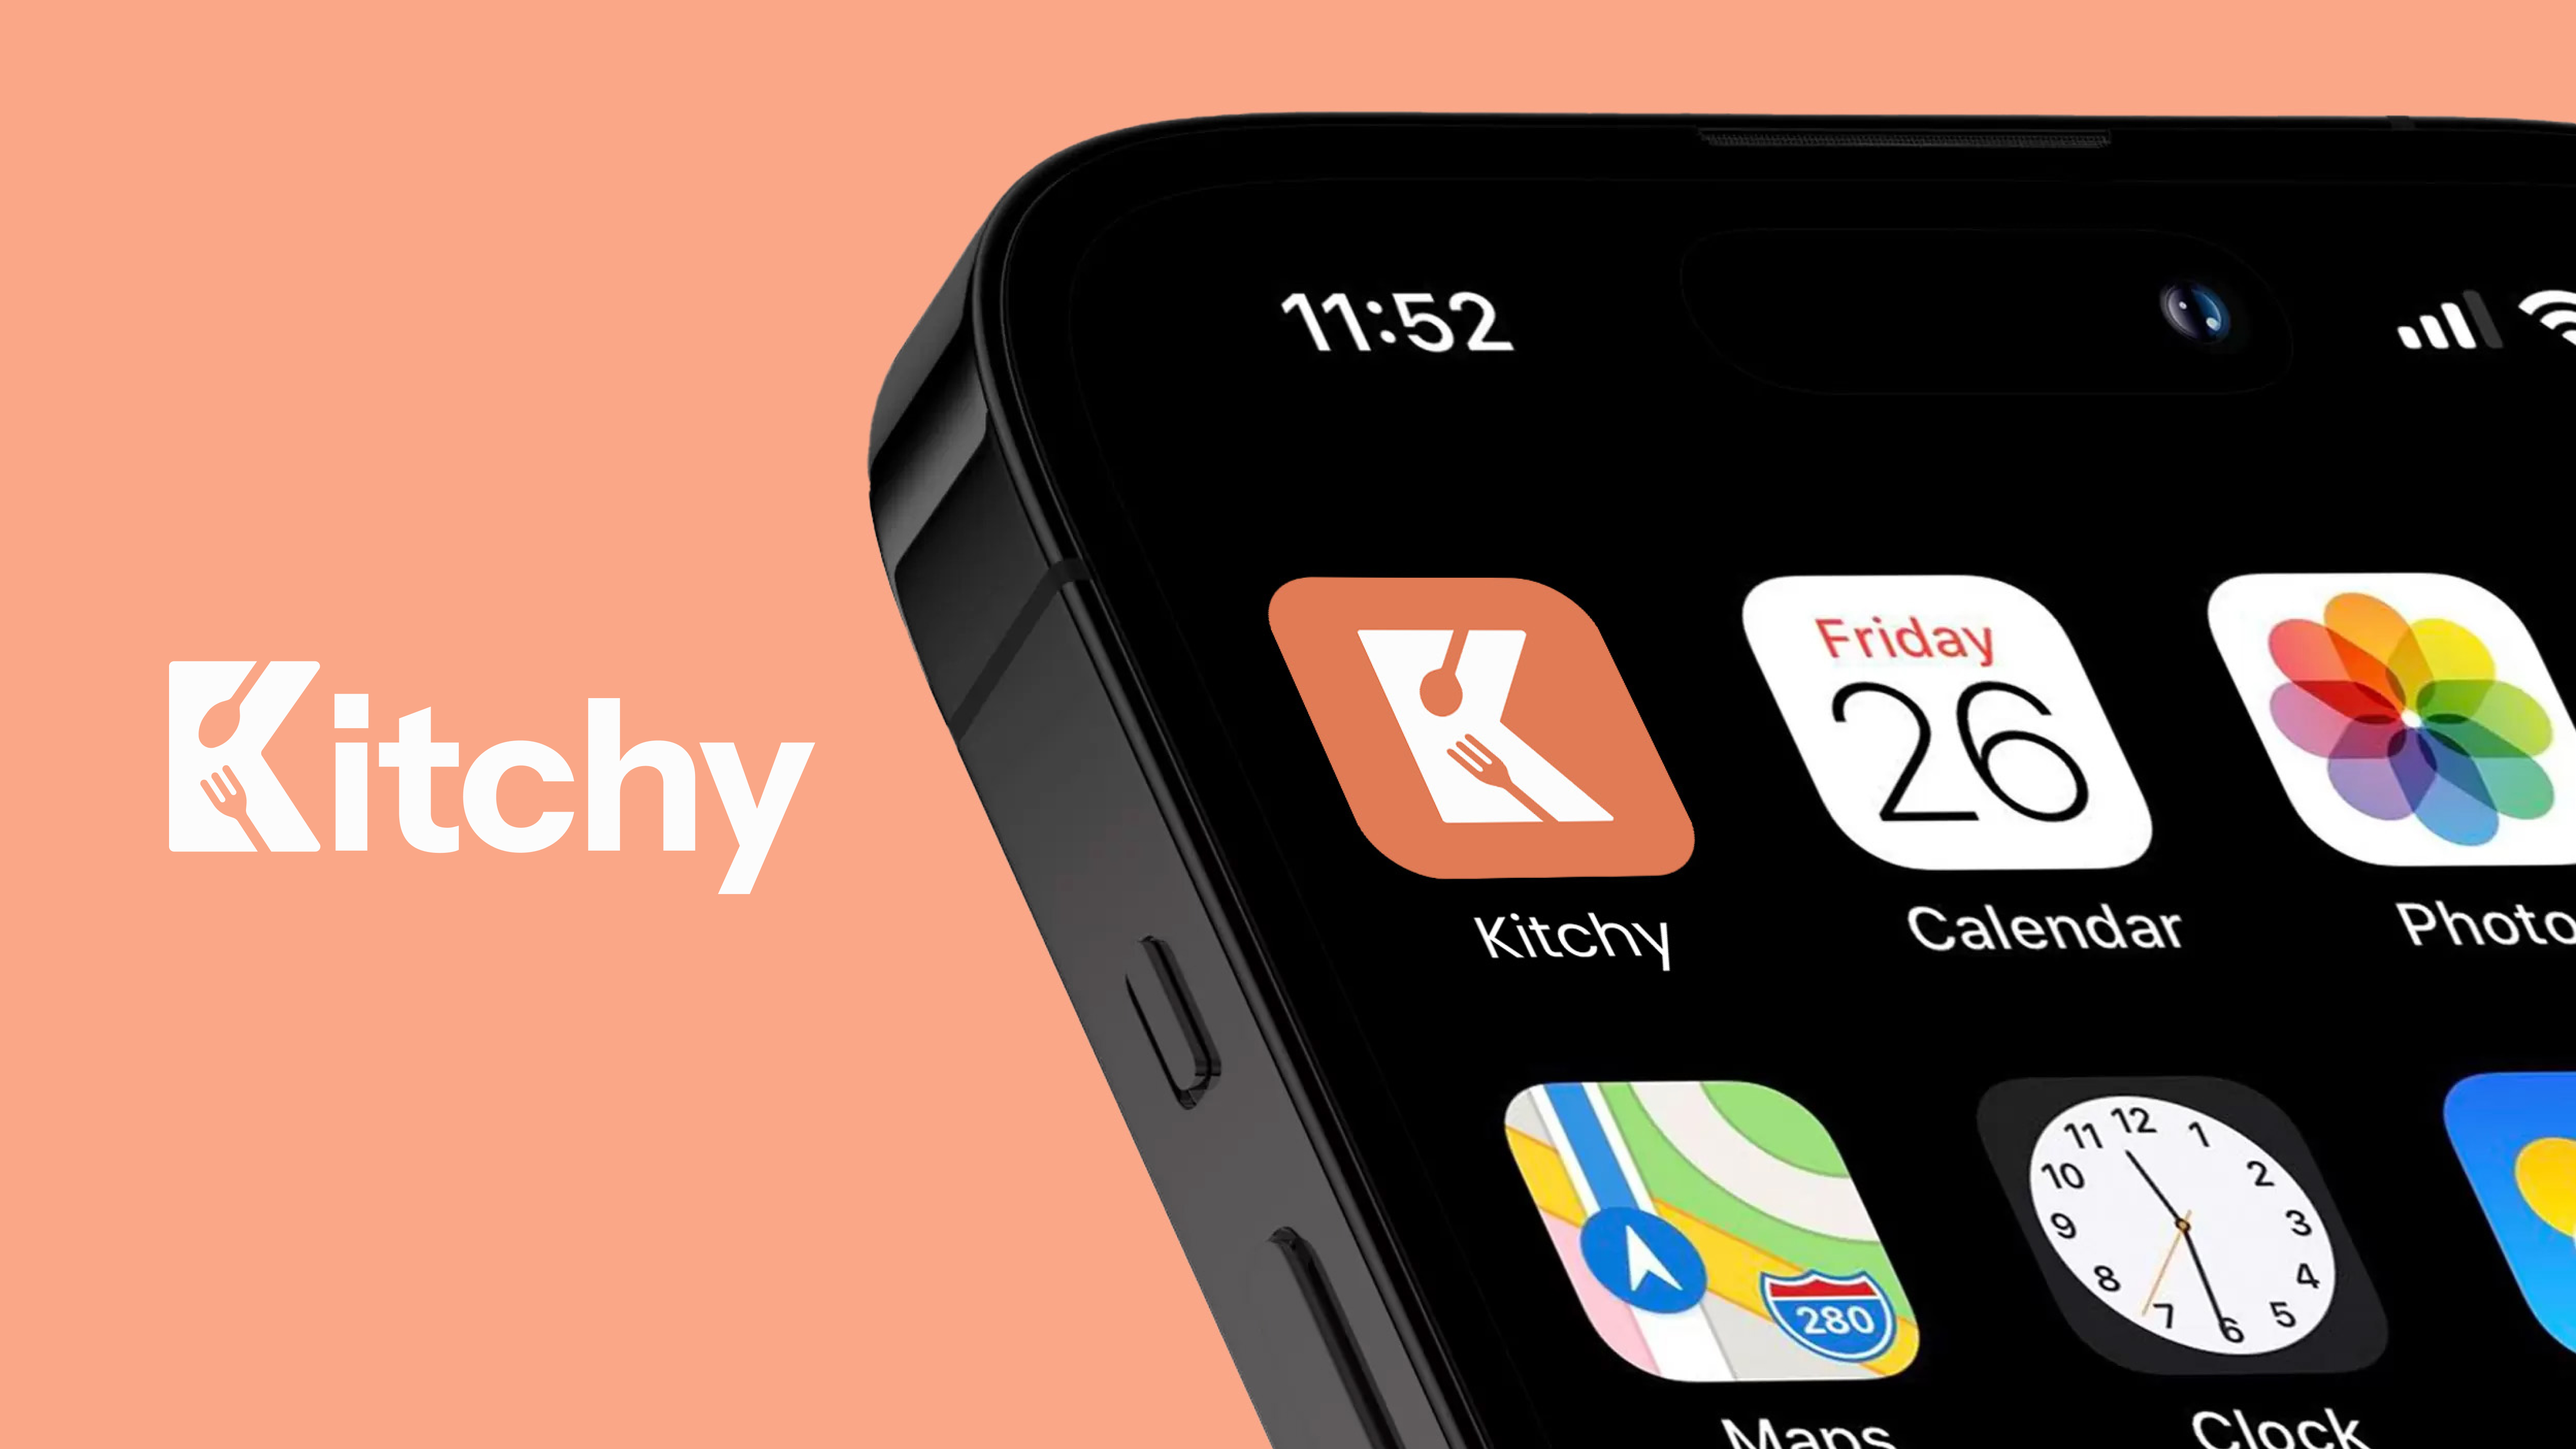
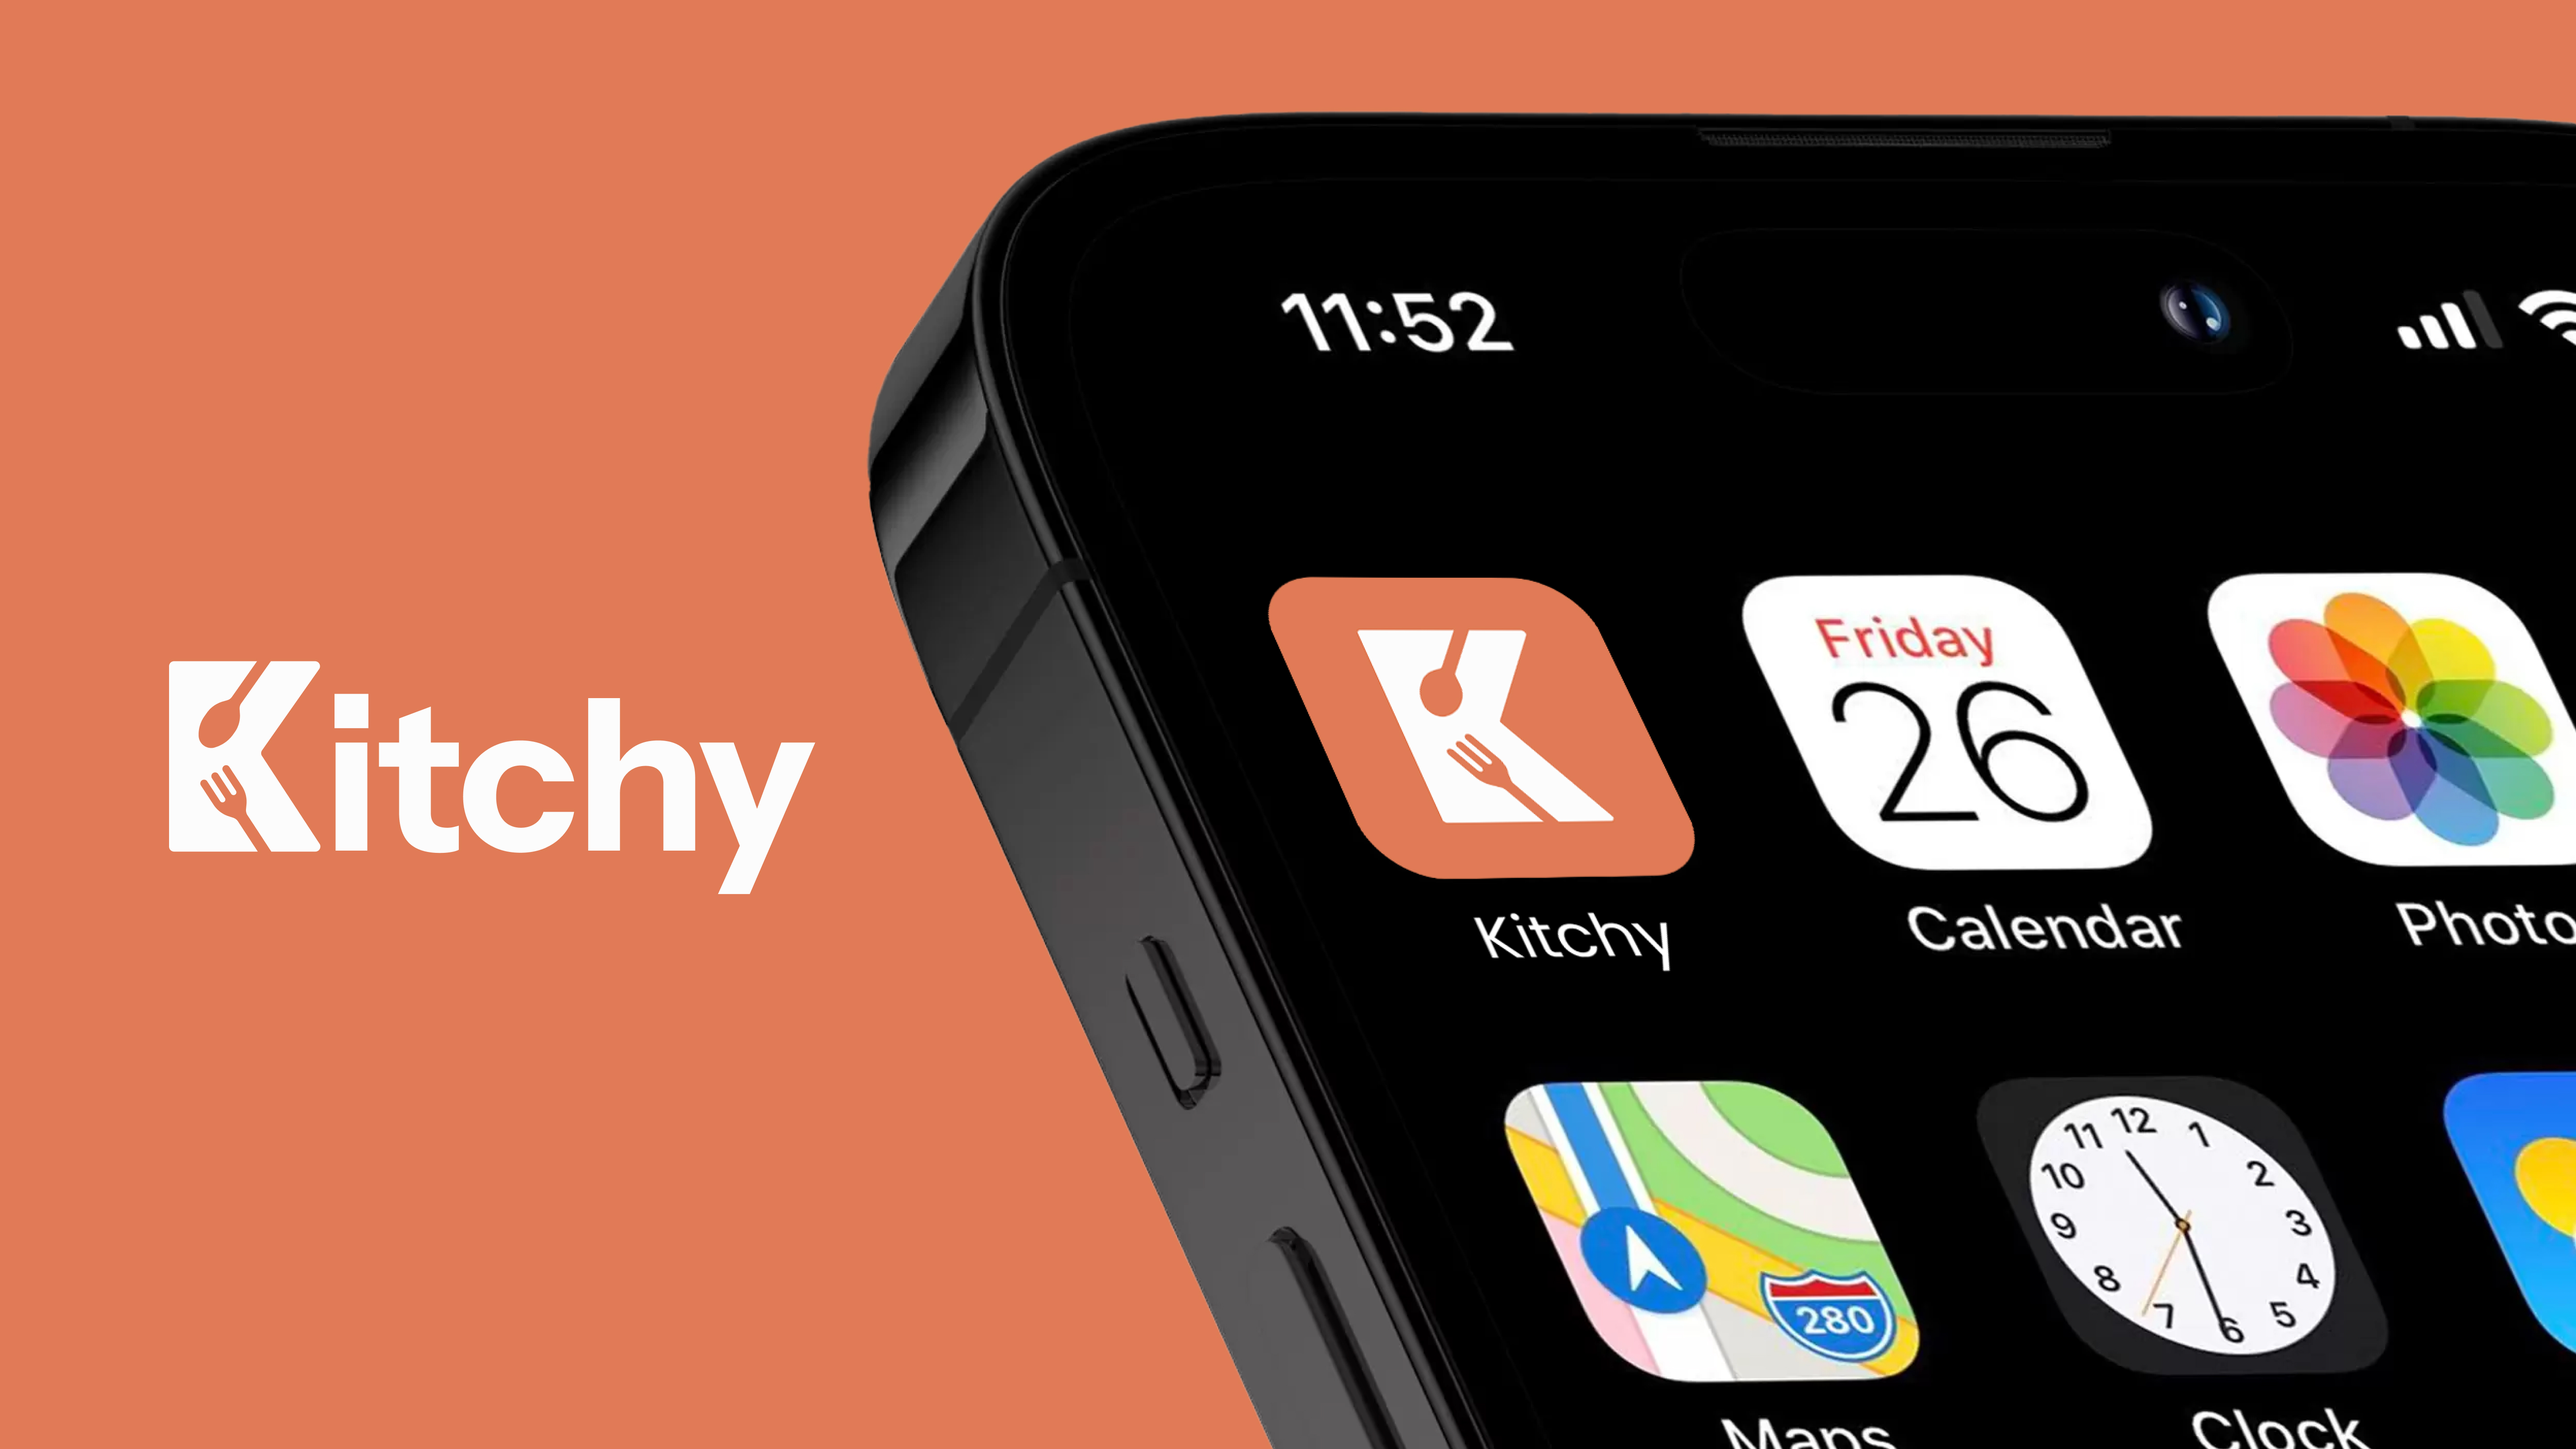
Changed kitchy cover image, h1 typeface, added process to little locals project

diff --git a/about.html b/about.html
@@ -54,7 +54,7 @@
         <div class="bio">
           <h4>Hi, I'm Sarah.</h4>
           <p>I am a fifth year studying Communication Design at the <a href="https://www.daap.uc.edu/" target="_blank">University of Cincinnati's College of Design, Architecture, Art, and Planning&#8599;</a> currently searching for a Fall 2026 Co-op.</p>
-          <p class="text-section">I am passionate about crafting intuitive user experiences that enhance interactions. I am eager to expand my expertise into branding, packaging, and environmental graphic design, blending functionality with creativity. I have previously worked at <a href="https://chamberlaingroup.com/" target="_blank">Chamberlain Group&#8599;</a> and <a href="https://www.geaerospace.com/?utm_source=google&utm_medium=cpc&utm_campaign=GE+Aerospace+%7C+Brand&gad_source=1" target="_blank">GE Aerospace&#8599; </a>.</p>
+          <p class="text-section">I am passionate about crafting intuitive user experiences that enhance interactions. I am eager to expand my expertise into branding, motion, packaging, or environmental graphic design, blending functionality with creativity. I have previously worked at <a href="https://chamberlaingroup.com/" target="_blank">Chamberlain Group&#8599;</a> and <a href="https://www.geaerospace.com/?utm_source=google&utm_medium=cpc&utm_campaign=GE+Aerospace+%7C+Brand&gad_source=1" target="_blank">GE Aerospace&#8599; </a>.</p>
             
 
           <div class="about-section2">

diff --git a/index.html b/index.html
@@ -56,12 +56,12 @@
       <div class="cursor-circle">View</div>
 
       <div class="grid">
-        <a href="plunge.html" class="grid-image" data-title="Plunge">
-          <img src="images/plunge.jpg" alt="Plunge">
+        <a href="little-locals.html" class="grid-image" data-title="Little Locals">
+          <img src="images/little-locals.jpg" alt="Little Locals">
         </a>
 
         <a href="kitchy.html" class="grid-image" data-title="Kitchy">
-          <img src="images/kitchy.jpg" alt="PathFinder">
+          <img src="images/kitchy-cover2.jpg" alt="PathFinder">
         </a>
       </div>
 
@@ -79,9 +79,11 @@
         <a href="infographic.html" class="grid-image" data-title="Melting Future">
           <img src="images/infographic.jpg" alt="Melting Future">
         </a>
-        <a href="little-locals.html" class="grid-image" data-title="Little Locals">
-          <img src="images/little-locals.jpg" alt="Little Locals">
+
+        <a href="plunge.html" class="grid-image" data-title="Plunge">
+          <img src="images/plunge.jpg" alt="Plunge">
         </a>
+        
       </div>
 
       <div class="about-grid">

diff --git a/main.css b/main.css
@@ -43,9 +43,9 @@ main h1 {
   font-size: 72px;
   text-align: left;
   width: 100%;
-  font-family: "freeman", sans-serif;
+  font-family: "Figtree", sans-serif;
   line-height: 4.5rem;
-  font-weight: 400;
+  font-weight: 600;
 }
 
 .about1 {
@@ -180,8 +180,8 @@ main a:hover {
 main h4 {
   font-size: 64px;
   padding-bottom: 2rem;
-  font-family: "Freeman", sans-serif;
-  font-weight: 300;
+  font-family: "Figtree", sans-serif;
+  font-weight: 600;
   line-height: 5rem;
 }
 
@@ -674,6 +674,36 @@ footer ul {
   width: 100%;
   display: block;
 }
+/*
+.little-process-grid {
+  display: flex;
+  gap: 2rem;
+  height: 400px;
+  margin: 0 auto 14rem auto;
+  width: auto;
+  justify-content: center;
+}
+
+.little-process-grid img {
+  height: 100%;
+  object-fit: cover;
+}
+*/
+
+.little-process-grid {
+  display: grid;
+  justify-content: center;
+  grid-template-columns: .3252fr .4012fr .2382fr;
+  gap: 1.5rem;
+  margin: 0 auto 14rem auto;
+  width: 80%;
+}
+
+.little-process-grid img {
+  width: 100%;
+  display: block;
+}
+
 
 .infographic {
   display: block;

diff --git a/little-locals.html b/little-locals.html
@@ -131,6 +131,18 @@
 
       <img class="moodboard" src="images/locals-taskflow.jpg" alt="Task Flow">
 
+      <div class="content">
+        <h3>Touchpoint Process</h3>
+
+        <p>I tried different methods of organizing and visualizing the steps. I started with them filling in the mad-lib by hand, but through testing with real children at the local library, I found that asking verbally is just as effective. I also tested different visuals for the foods.</p>
+      </div>
+
+      <div class="little-process-grid">
+        <img src="images/little-process1.jpg" alt="Process">
+        <img src="images/little-process2.jpg" alt="Process">
+        <img src="images/little-process3.jpg" alt="Process">
+      </div>
+
       <div class="title">
         <h3>Final Touchpoint</h3>
       </div>

diff --git a/kitchy.html b/kitchy.html
@@ -45,7 +45,7 @@
     <main>
 
       <figure class="full-bleed">
-        <img src="images/kitchy-cover.jpg" alt="Kitchy App">
+        <img src="images/kitchy-cover3.jpg" alt="Kitchy App">
       </figure>
 
       <div class="projects">
@@ -164,6 +164,8 @@
       </div>
 
       <img class="moodboard" src="images/kitchy-poster.jpg" alt="PathFinder App">
+
+      <img class="final" src="images/kitchy-cover.jpg" alt="">
 
     </main>
 
